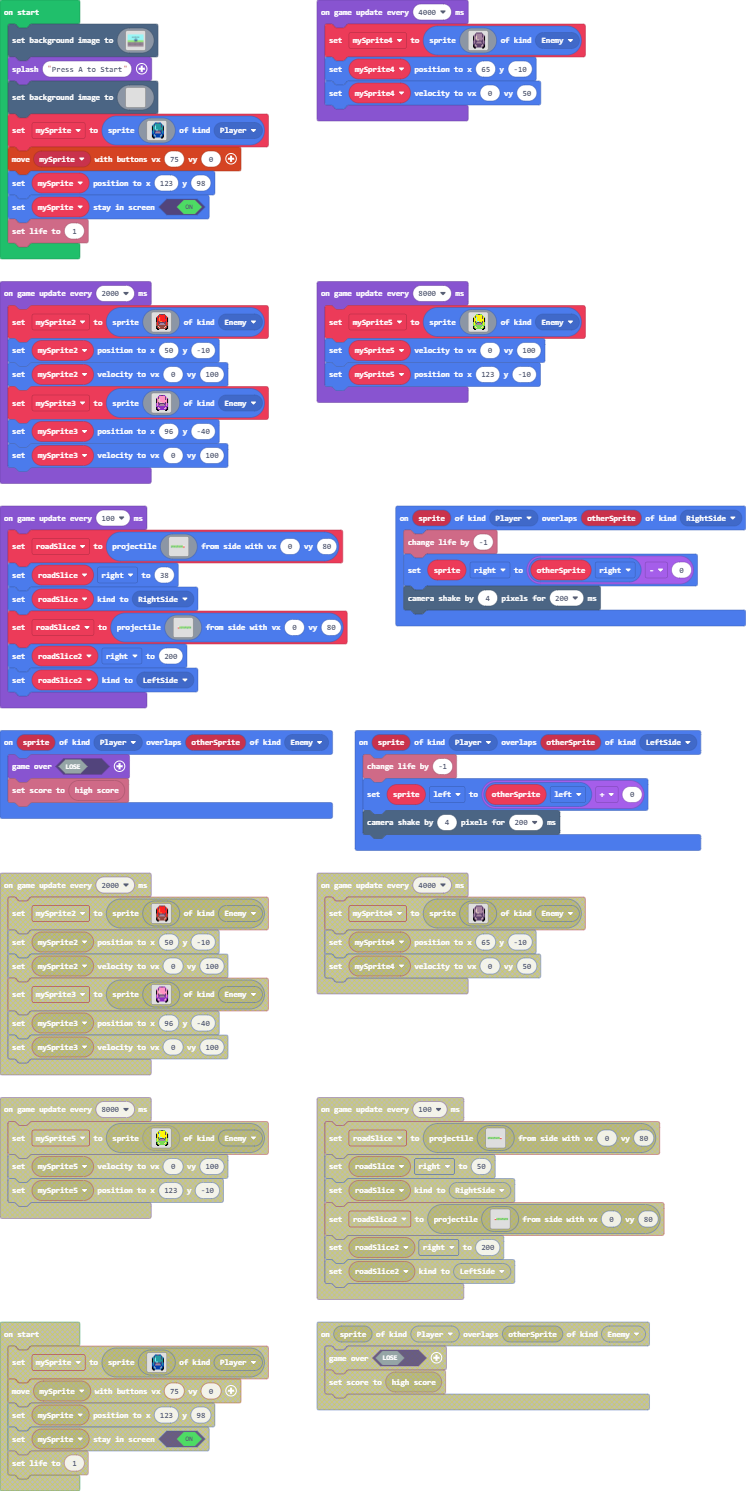
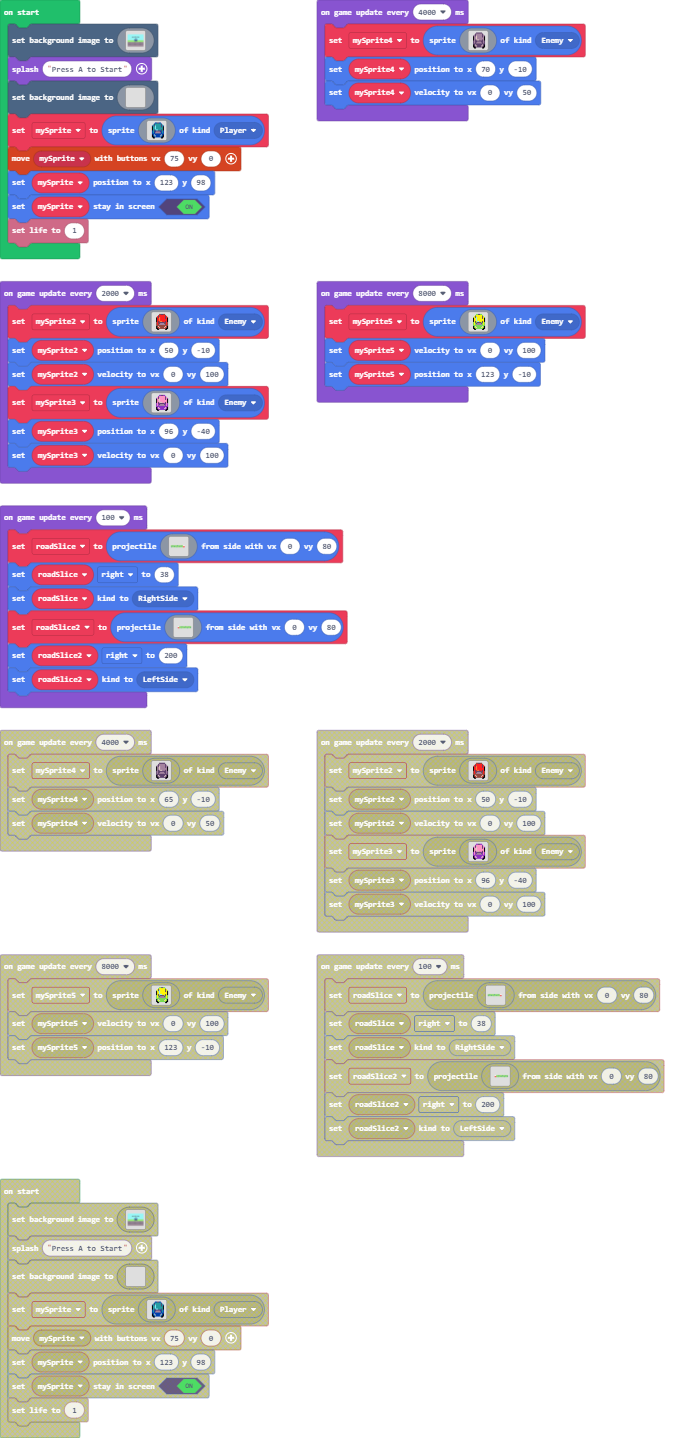
Update main.blocks, main.ts

diff --git a/main.ts b/main.ts
@@ -356,7 +356,7 @@ game.onUpdateInterval(4000, function () {
         . . . f f c c c c c c c c f f . 
         . . . . f f . . . . . . f f . . 
         `, SpriteKind.Enemy)
-    mySprite4.setPosition(65, -10)
+    mySprite4.setPosition(70, -10)
     mySprite4.setVelocity(0, 50)
 })
 game.onUpdateInterval(100, function () {
